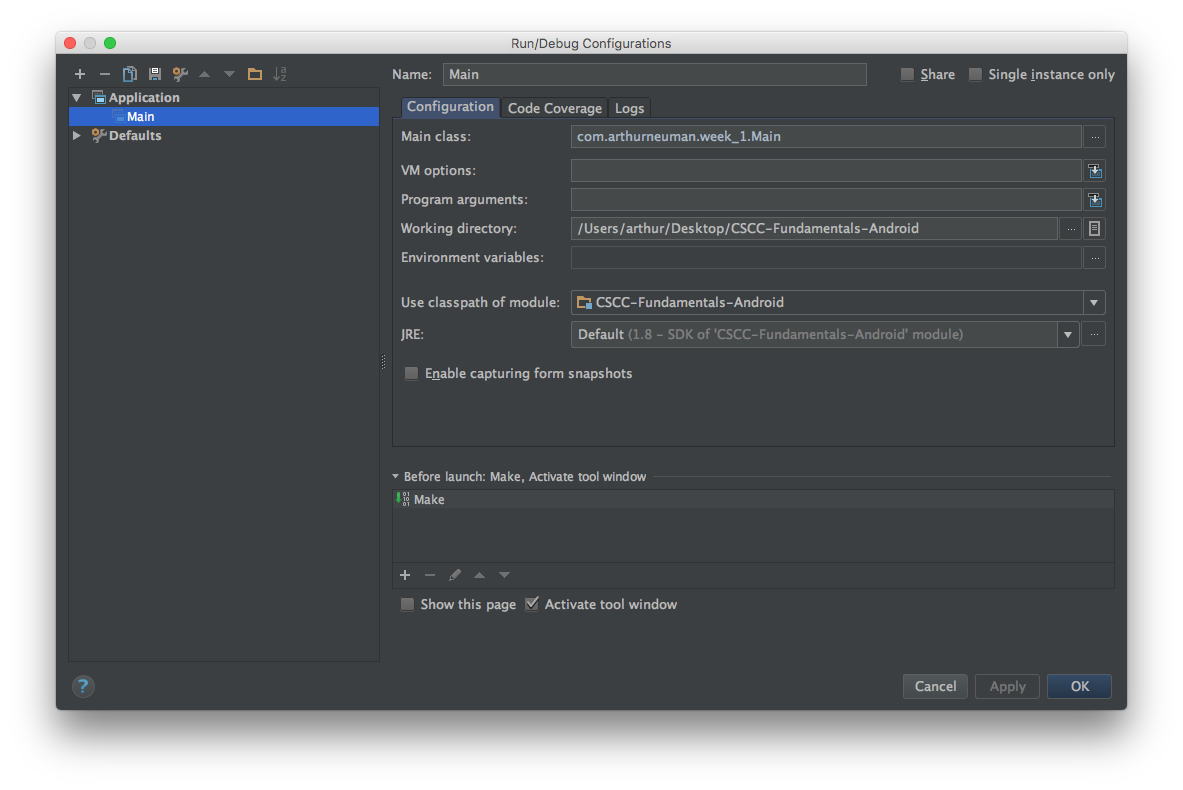
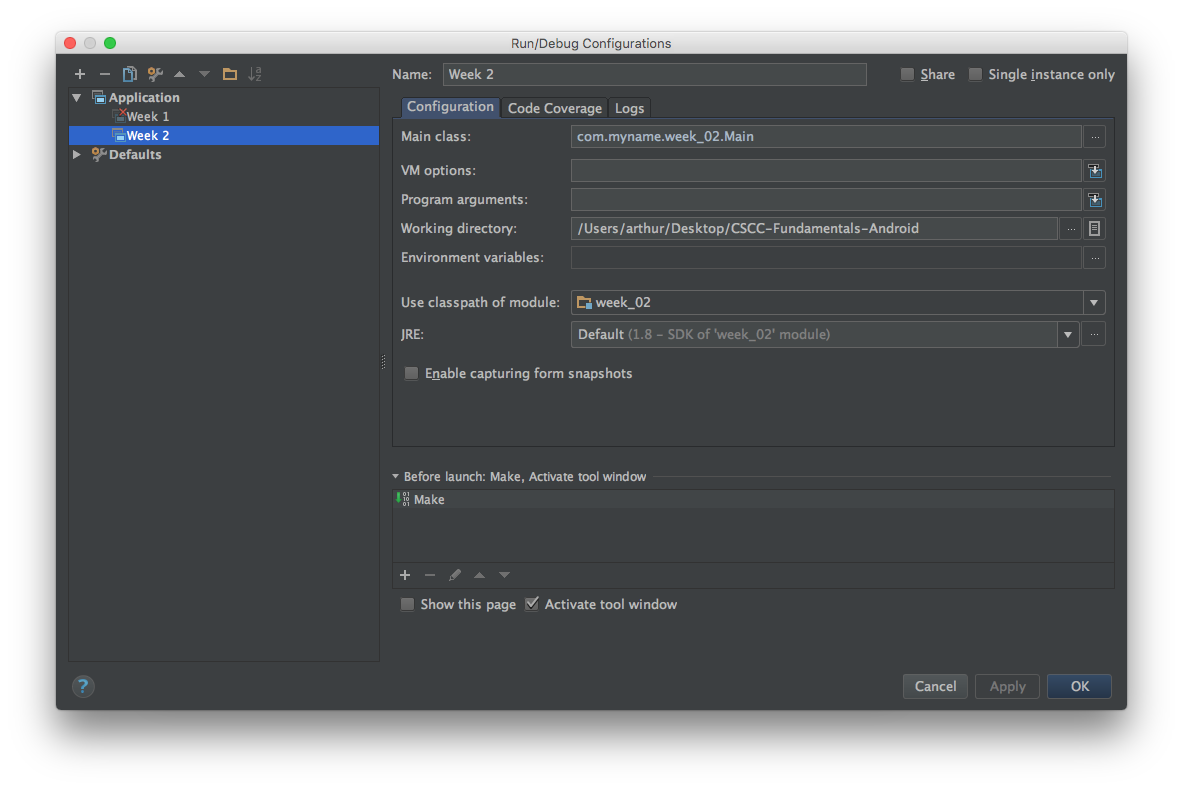
redoing notes for project structure

diff --git a/week_02/readme.md b/week_02/readme.md
@@ -13,10 +13,17 @@ folder.
 
 Typically, we would create a new project when we start new work but rather than
 creating a new IntelliJ project and GitHub repository for each week's work, we
-will add to our existing project and repository.  To add a folder for this 
-week's work, right-click on the **src** folder and select **New** and
-**Package** from the context menu. Name the package something similar to
-*com.myname.week_02*, replacing *myname* with your name.
+will add to our existing project and repository.  To add a folder for this
+week's work, right-click on the top-level directory select **New** and
+**Module** from the context menu. This will be a Java module without any
+special libraries. Let's name the new module *week_01* folder and move our code
+from last week into the new module by dragging and dropping the package folder
+from the old *src* folder to the new *src* folder.  We can now delete the old
+*src* folder. Next, we can create a new module by right-clicking on our project
+folder and selecting **New** and **Module**.  Once we have the new module,
+right-click on it's *src* folder and select **New** and **Package** from the
+context menu. Name the package something similar to *com.myname.week_02*,
+replacing *myname* with your name.
 
 Now that we have a new folder for this week's work, we'll need to create a file
 where we can write code. Right-click on the newly created week_2 folder and
@@ -62,10 +69,10 @@ select *Edit Configurations*.
 
 The Run/Debug Configurations window will appear.
 
-![Configurations](images/configurations.png)
-
 Let's rename the existing *Main* configuration by selecting it on the left, and
-replacing it's name with something like *Week 1*.
+replacing it's name with something like *Week 1*. You will also have to
+update the "Use classpath of module" field to point to the new module we
+created for the old code.
 
 We can create a new configuration by clicking the plus icon in the upper left
 corner of the window and selecting *Application*. Let's name this configuration
@@ -74,7 +81,7 @@ main class is *com.myname.week_02.Main*, with *myname* replaced with your name.
 The working directory can be copied and pasted from the *Week 1* configuration.
 The configuration should now look similar to this:
 
-![Week 2 Configuration](images/week_2_config.png)
+![Week 2 Configuration](images/configurations.png)
 
 Click "Ok" and you should see that *Week 2* is now selected in the drop down
 box in the toolbar; pressing the play/run button now will run the code in the
@@ -354,15 +361,13 @@ public class Main {
 }
 ```
 
-Depending on the values of *currentTemperature* and *warmThreshold*, this code
-will display either `It's warm outside!` or `It's cold outside!`.
-
-Java's single ternary operator, allows us to write simple if-else statements
-on one line.
-
-| Operator    | Symbol | Description                                                                                                                                                                                                                            |
-|:------------|:-------|:---------------------------------------------------------------------------------------------------------------------------------------------------------------------------------------------------------------------------------------|
-| Conditional | `?:`   | Given `operand1 ? operand2 : operand3` where *operand1* is of Boolean type and *operand2* and *operand3* are of the same type, return *operand2* if *operand1* evaluates to *true* or *operand3* if *operand1* evaluates to *false*  | |
+Depending on the values of *currentTemperature* and *warmThreshold*, thi| will display either `It's warm outside!` or `It's cold outsid | Java's single ternary operator, allows us to write simple if-else stat | on one l | Operator | Symbol | Description                                                                                                                                                                                             |
+|:--------------------------------------------------------------|:-----------------------------------------------------------------------|:---------------------------------------------------------------------------------------------------------------------------------------------------------------------------------------------------------------------------------------|
+| Conditional                                                   | `?:`                                                                   | Given `operand1 ? operand2 : operand3` where *operand1* is of Boolean type and *operand2* and *operand3* are of the same type, return *operand2* if *operand1* evaluates to *true* or *operand3* if *operand1* evaluates to *false*  | |
+| *                                                             |                                                                        |                                                                                                                                                                                                                                        |
+| *                                                             |                                                                        |                                                                                                                                                                                                                                        |
+| *                                                             |                                                                        |                                                                                                                                                                                                                                        |
+*  | |
 
 We can use the conditional operator to rewrite the previous example.
 
@@ -1028,21 +1033,21 @@ where it's more convenient to use continue statements.
 
 Sometimes, its desirable skip the remaining iteration of multiple, nested
 loops. The **labeled continue** statement skips the remaining iteration of one or
-more nested loops and transfers execution to the labeled loop.
+more nested loops and transfers execution to the lab| For example, suppose we wanted to print only the positive differe | numbers when the two numbers are each between 1 and 10.  Before | the code to do this, let's think about how we might do this b | First Number | Second Number | Difference   | Outcome                                  |
+|:------------------------------------------------------------------|:----------------------------------------------------------------|:--------------------------------------------------------------|:---------------------------------------------------------------------------------------|
+| 1                                                                 | 1                                                               | Not Positive                                                  | Don't display this and move on to the next value for both the first and second numbers |
+| 2                                                                 | 1                                                               | Positive                                                      | Display this and move on to the next value for the second number                       |
+| 2                                                                 | 2                                                               | Not Positive                                                  | Don't display this and move on to the next value for both the first and second numbers |
+| 3                                                                 | 1                                                               | Positive                                                      | Display this and move on to the next value for the second number                       |
+| 3                                                                 | 2                                                               | Positive                                                      | Display this and move on to the next value for the second number                       |
+| 3                                                                 | 3                                                               | Not Positive                                                  | Don't display this and move on to the next value for both the first and second numbers |
+| 4                                                                 | 1                                                               | Positive                                                      | Display this and move on to the next value for the second number                       |
+|                                                                   |                                                                 |                                                               |                                                                                        |
+|                                                                   |                                                                 |                                                               |                                                                                        |
 
-For example, suppose we wanted to print only the positive differences of two
-numbers when the two numbers are each between 1 and 10.  Before we look at
-the code to do this, let's think about how we might do this by hand.
+          |
 
-| First Number | Second Number | Difference   | Outcome                                                                                |
-|:-------------|:--------------|:-------------|:---------------------------------------------------------------------------------------|
-| 1            | 1             | Not Positive | Don't display this and move on to the next value for both the first and second numbers |
-| 2            | 1             | Positive     | Display this and move on to the next value for the second number                       |
-| 2            | 2             | Not Positive | Don't display this and move on to the next value for both the first and second numbers |
-| 3            | 1             | Positive     | Display this and move on to the next value for the second number                       |
-| 3            | 2             | Positive     | Display this and move on to the next value for the second number                       |
-| 3            | 3             | Not Positive | Don't display this and move on to the next value for both the first and second numbers |
-| 4            | 1             | Positive     | Display this and move on to the next value for the second number                       |
+        |
 
 And so on.
 
